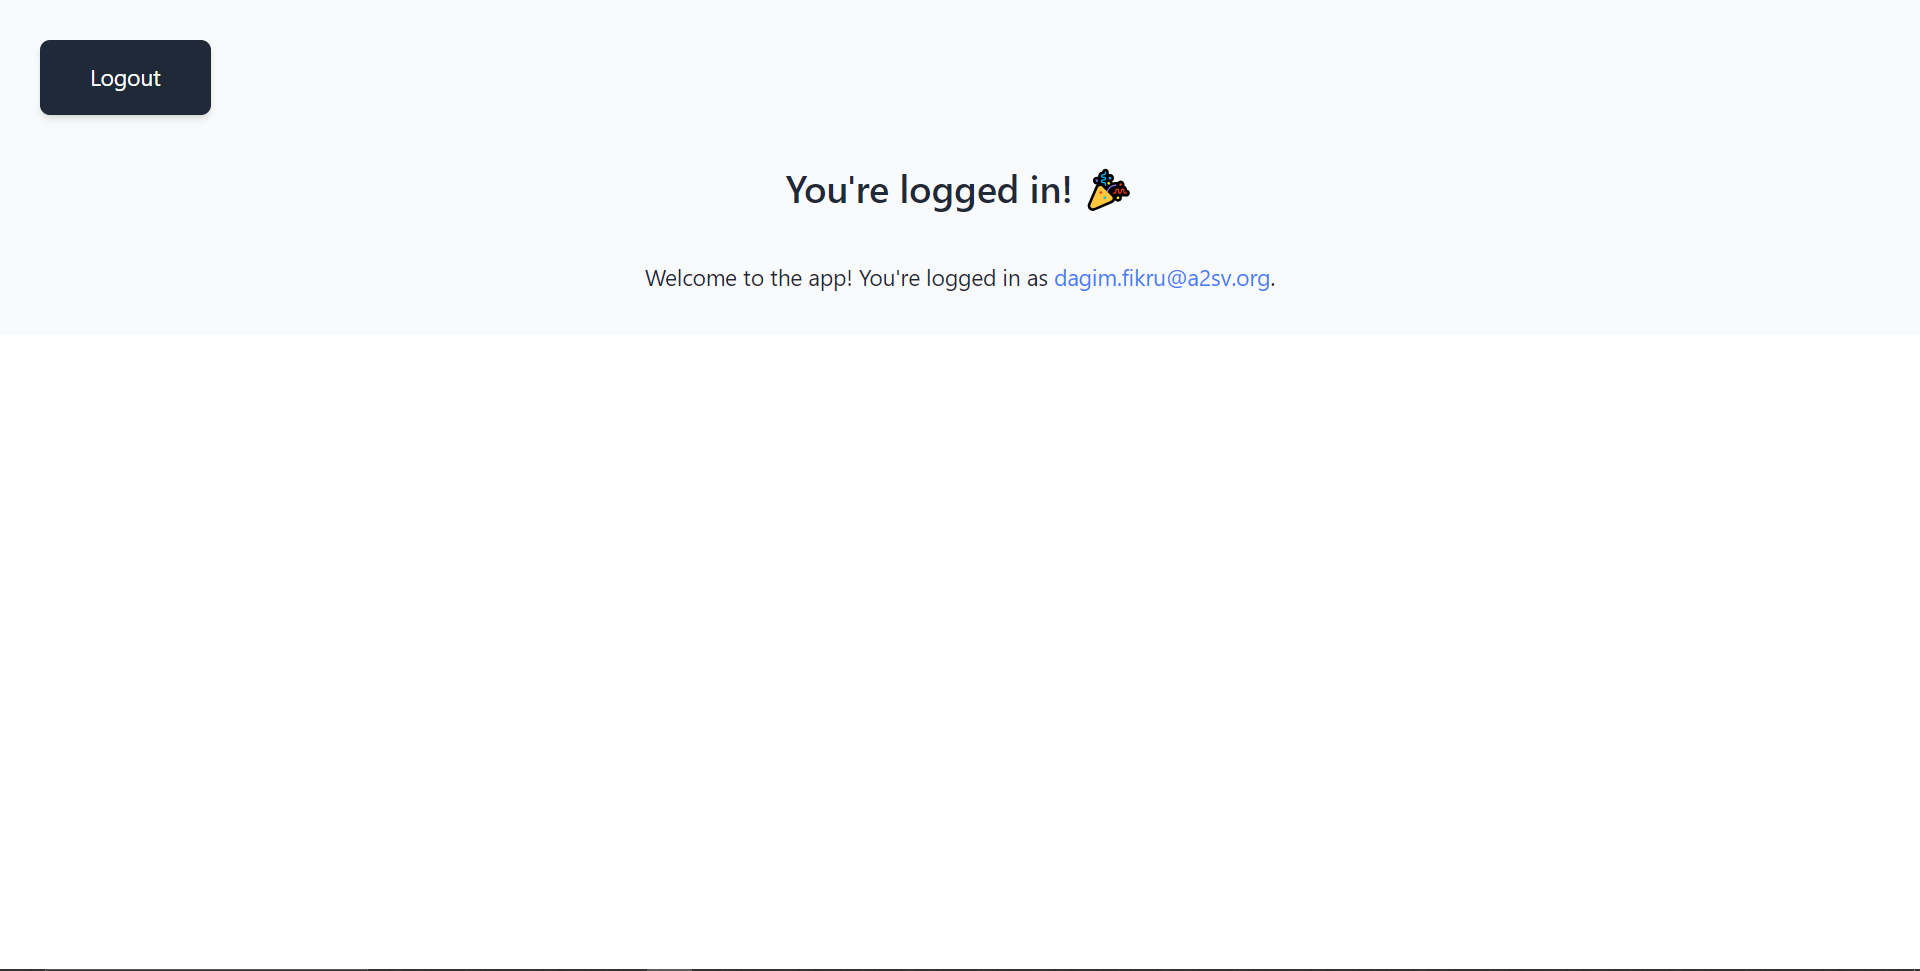
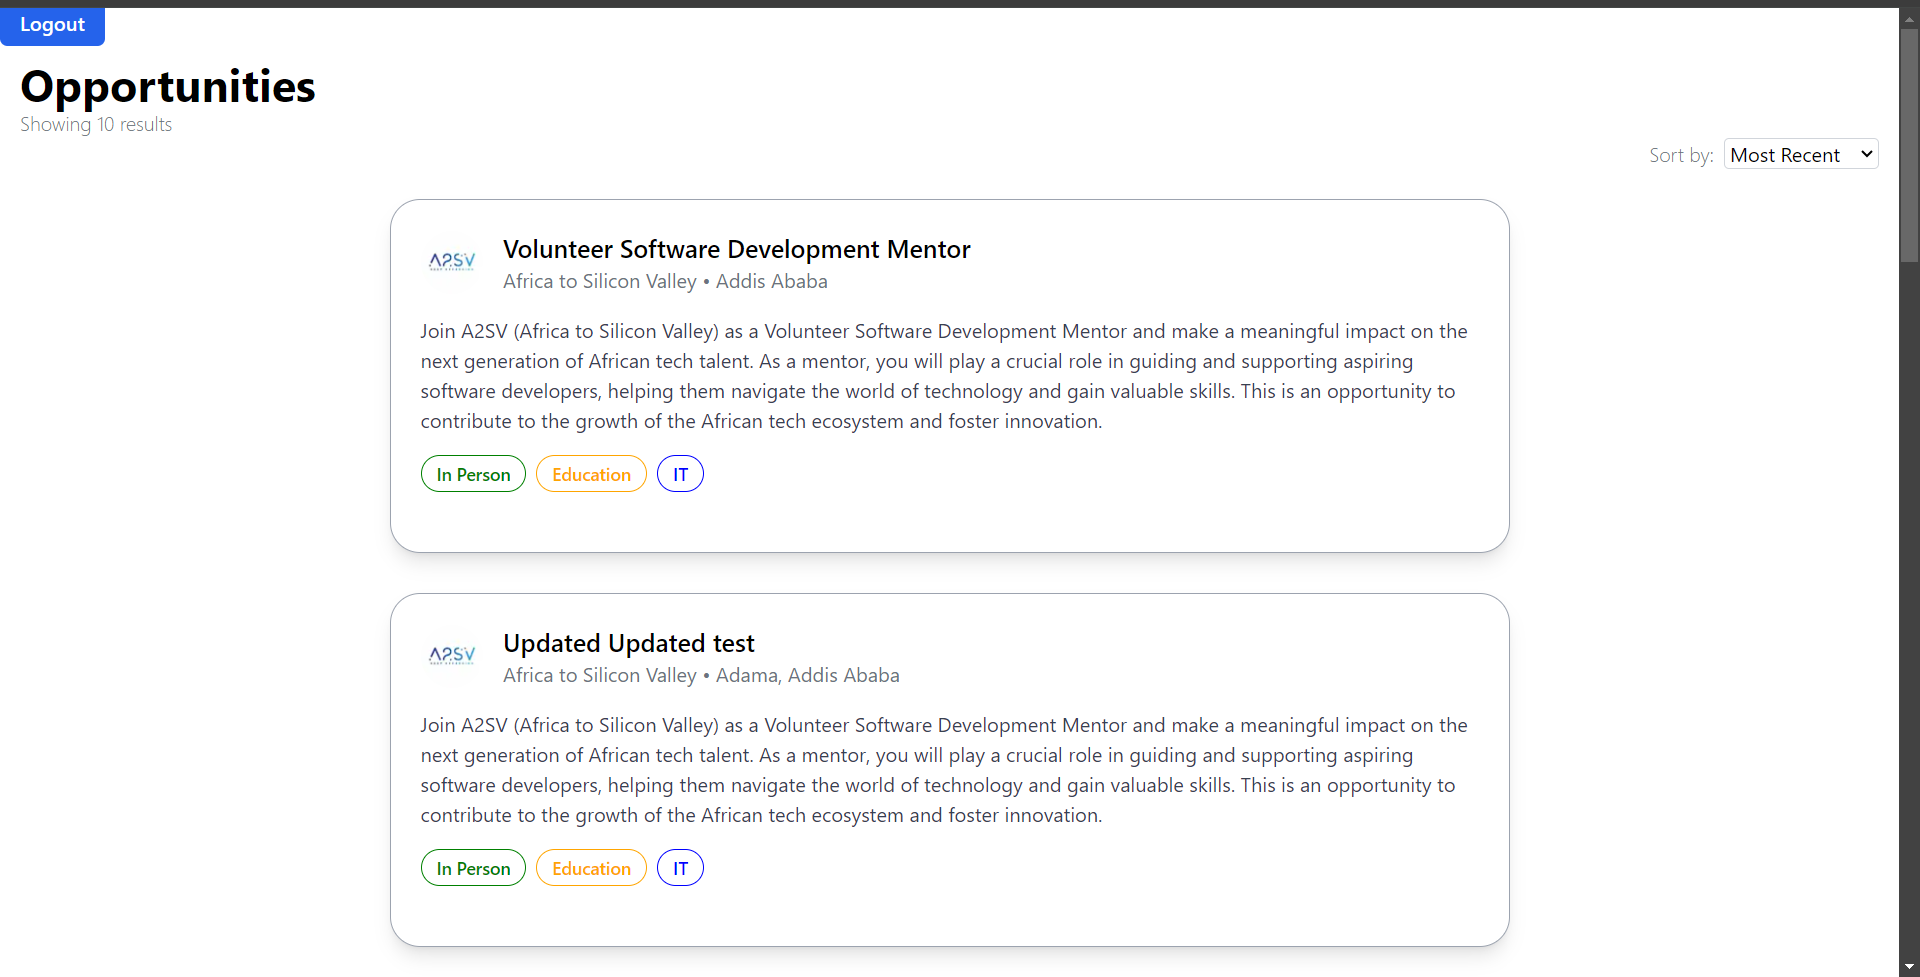
correct some pages

diff --git a/Task-8/app/components/JobListing.tsx b/Task-8/app/components/JobListing.tsx
@@ -1,0 +1,82 @@
+"use client";
+import Link from 'next/link';
+import React, { useEffect, useState } from 'react'
+import Card from './card';
+
+const JobListing = () => {
+    const [opportunities, setOpportunities] = useState<any[]>([]);
+    const [loading, setLoading] = useState(true);
+    const [error, setError] = useState(null);
+
+    useEffect(() => {
+        const fetchData = async () => {
+            try {
+                const response = await fetch('https://akil-backend.onrender.com/opportunities/search');
+                if (!response.ok) {
+                    throw new Error('Network response was not ok');
+                }
+                const data = await response.json();
+                // Assuming the API returns the data within a 'data' field
+                setOpportunities(data.data);
+            } catch (error: any) {
+                setError(error.message);
+            } finally {
+                setLoading(false);
+            }
+        };
+        fetchData();
+    }, []);
+    return (
+        <div>
+
+            <Link
+                href="/api/auth/signout?callbackUrl=/signin"
+                className="px-4 py-2 text-white bg-blue-600 hover:bg-blue-700 rounded-md font-semibold transition duration-300 text-center"
+            >
+                Logout
+            </Link>
+            <div className="p-4">
+                <div className="">
+                    <h1 className="text-black text-4xl font-bold font-sans">Opportunities</h1>
+                    <p className="font-light text-gray-500">
+                        Showing {
+                            opportunities.length
+                        } results
+                    </p>
+                </div>
+                <div className="mb-6 text-right">
+                    <label className="mr-2 font-light text-gray-500">Sort by:</label>
+                    <select className="border-gray-300 rounded border">
+                        <option>Most Recent</option>
+                        <option>Most Popular</option>
+                        <option>Most Relevant</option>
+                    </select>
+                </div>
+                {loading &&
+                    <div className="fixed inset-0 flex items-center justify-center z-50">
+                        <img src="https://i.gifer.com/ZKZg.gif" alt="Loading..." className="w-16 h-16" />
+                    </div>}
+                {error && <p className="text-red-600 bg-red-100 p-2 rounded-md text-sm font-semibold">Error: {error}</p>}
+                <div className="space-y-8">
+                    {opportunities.map((opportunity, index) => (
+                        <Card
+                            key={index}
+                            title={opportunity.title}
+                            company={opportunity.orgName}
+                            location={opportunity.location.join(', ')}
+                            description={opportunity.description}
+                            image={opportunity.logoUrl}
+                            tags={[
+                                { name: 'In Person', color: 'green', borderColor: 'green' },
+                                { name: 'Education', color: 'orange', borderColor: 'orange' },
+                                { name: 'IT', color: 'blue', borderColor: 'blue' },
+                            ]}
+                        />
+                    ))}
+                </div>
+            </div>
+        </div>
+    )
+}
+
+export default JobListing

diff --git a/Task-8/app/page.tsx b/Task-8/app/page.tsx
@@ -2,6 +2,10 @@
 import Link from "next/link";
 import { redirect } from "next/navigation";
 import { useSession } from "next-auth/react";
+import Image from "next/image";
+import { useEffect, useState } from 'react';
+import JobListing from "./components/JobListing";
+
 
 const Page: React.FC = () => {
   const { data: session } = useSession({
@@ -22,25 +26,8 @@ const Page: React.FC = () => {
   }
   return (
     <>
-      <div className="font-sans text-center p-8 bg-gray-50 ">
-        <nav className="flex justify-between items-center p-4 bg-gray-800 text-white shadow-md rounded-lg max-w-fit">
-          <Link
-            href="/api/auth/signout?callbackUrl=/signin"
-            className="text-lg hover:text-blue-300 mx-6"
-          >
-            Logout
-          </Link>
-        </nav>
-        <h1 className="text-gray-800 m-10 text-3xl font-semibold">
-          You're logged in! 🎉
-        </h1>
-        {session && (
-          <p className="text-gray-800 text-lg">
-            Welcome to the app! You're logged in as{" "}
-            <span className="text-blue-500">{session.user.email}</span>.
-          </p>
-        )}
-      </div>
+        <JobListing/>
+      
     </>
   );
 };

diff --git a/Task-8/app/globals.css b/Task-8/app/globals.css
@@ -2,26 +2,4 @@
 @tailwind components;
 @tailwind utilities;
 
-:root {
-  --foreground-rgb: 0, 0, 0;
-  --background-start-rgb: 214, 219, 220;
-  --background-end-rgb: 255, 255, 255;
-}
 
-@media (prefers-color-scheme: dark) {
-  :root {
-    --foreground-rgb: 0, 0, 0;
-    --background-start-rgb: 0, 0, 0;
-    --background-end-rgb: 0, 0, 0;
-  }
-}
-
-body {
-  color: rgb(var(--foreground-rgb));
-}
-
-@layer utilities {
-  .text-balance {
-    text-wrap: balance;
-  }
-}

diff --git a/Task-8/app/dashboard/page.tsx b/Task-8/app/dashboard/page.tsx
@@ -3,7 +3,6 @@ import React from 'react';
 import { FaCalendarCheck, FaCheckCircle, FaMapMarkerAlt, FaRegCalendarCheck } from 'react-icons/fa';
 import { RiAddCircleLine } from 'react-icons/ri';
 import { SiFireship } from 'react-icons/si';
-import jobPostings from '../data/jobs.json';
 import { useEffect, useState } from 'react';
 interface Job {
     description: string;
